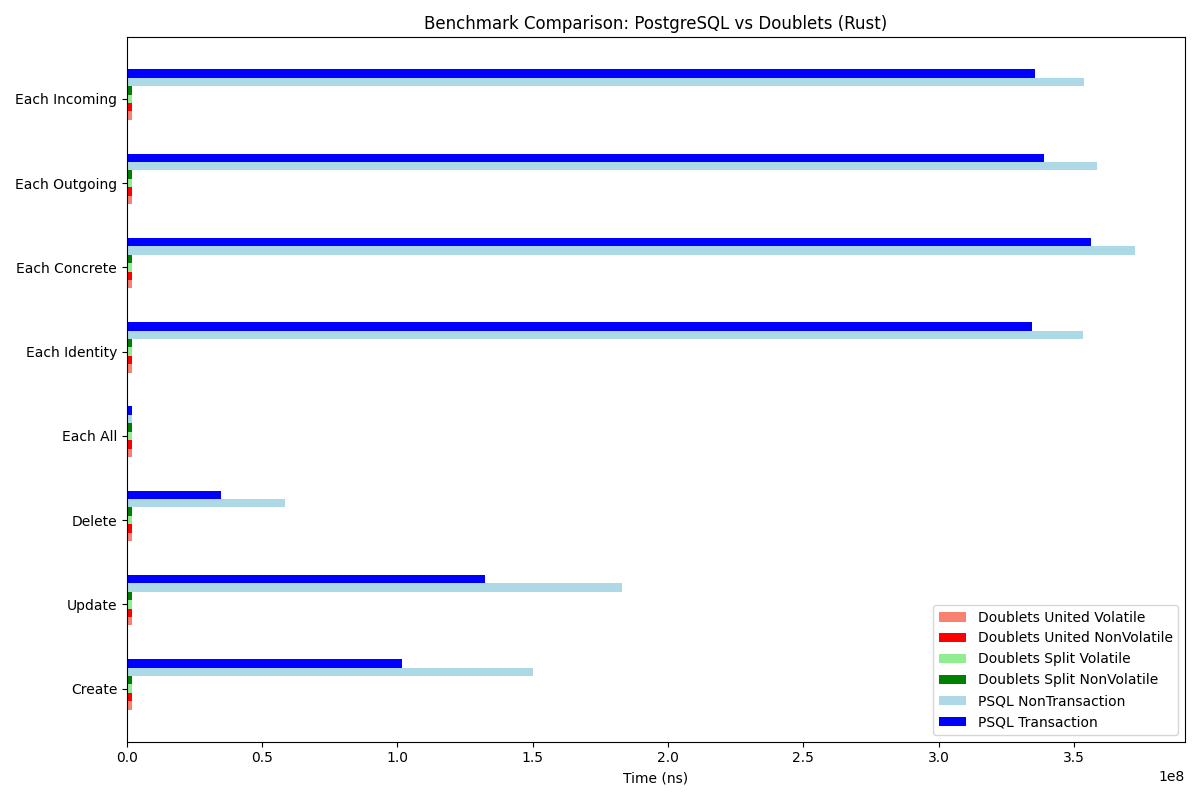
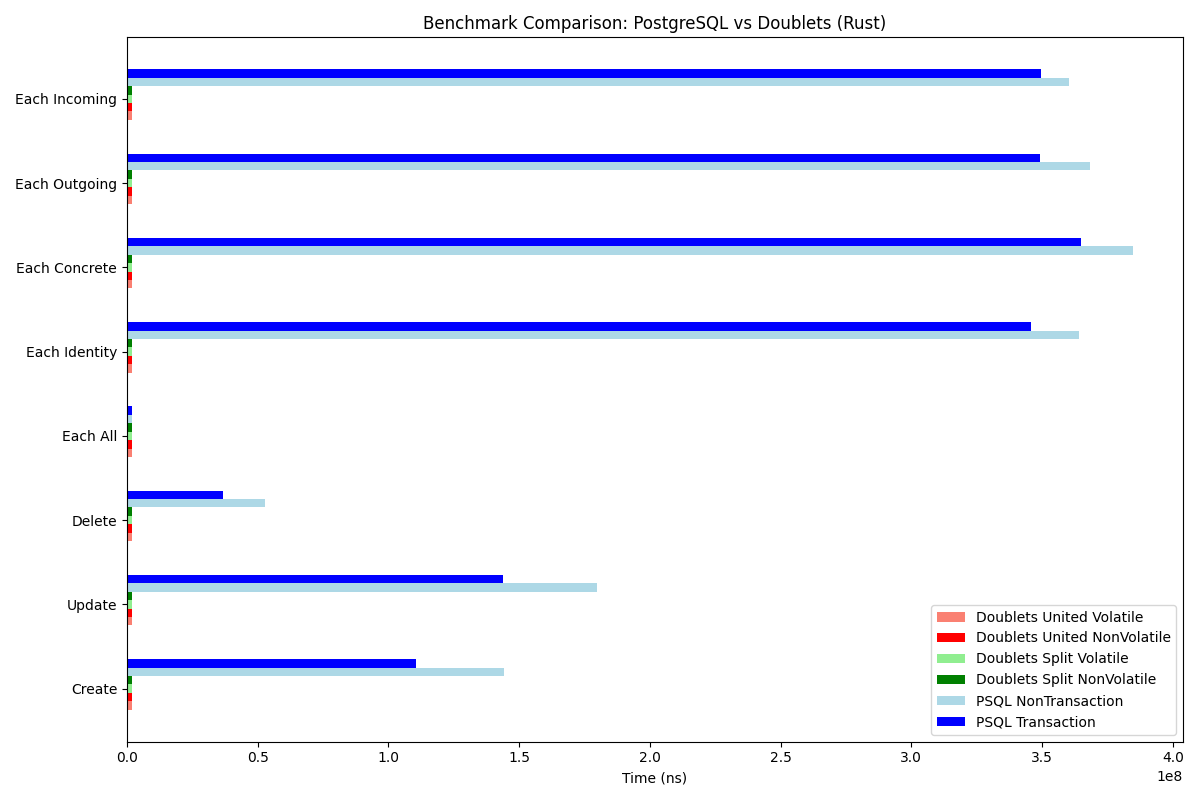
Update benchmark results

diff --git a/README.md b/README.md
@@ -32,14 +32,14 @@ The results below represent the amount of time (ns) the operation takes per iter
 
 | Operation     | Doublets United Volatile | Doublets United NonVolatile | Doublets Split Volatile | Doublets Split NonVolatile | PSQL NonTransaction | PSQL Transaction |
 |---------------|--------------------------|-----------------------------|-------------------------|----------------------------|---------------------|------------------|
-| Create        | 9204 (11056.4x faster)   | 9125 (11152.1x faster)      | 9478 (10736.8x faster)  | 8226 (12370.9x faster)     | 150151369           | 101763082        |
-| Update        | 34157 (3869.8x faster)   | 33954 (3892.9x faster)      | 8291 (15942.5x faster)  | 8266 (15990.8x faster)     | 182868706           | 132179627        |
-| Delete        | 17329 (2013.3x faster)   | 17451 (1999.3x faster)      | 14195 (2457.8x faster)  | 14601 (2389.5x faster)     | 58448123            | 34889131         |
-| Each All      | 4708 (160.2x faster)     | 5011 (150.5x faster)        | 5316 (141.9x faster)    | 5629 (134.0x faster)       | 793277              | 754115           |
-| Each Identity | 34190 (9780.9x faster)   | 34208 (9775.8x faster)      | 33923 (9857.9x faster)  | 33896 (9865.8x faster)     | 353408454           | 334410191        |
-| Each Concrete | 57288 (6222.6x faster)   | 57067 (6246.7x faster)      | 44231 (8059.5x faster)  | 44280 (8050.5x faster)     | 372416796           | 356478290        |
-| Each Outgoing | 91274 (3713.8x faster)   | 103925 (3261.7x faster)     | 39869 (8502.1x faster)  | 39901 (8495.3x faster)     | 358537556           | 338972159        |
-| Each Incoming | 87745 (3824.4x faster)   | 104678 (3205.7x faster)     | 40089 (8370.6x faster)  | 40144 (8359.2x faster)     | 353697010           | 335569920        |
+| Create        | 8780 (12614.9x faster)   | 9125 (12137.9x faster)      | 8296 (13350.9x faster)  | 8270 (13392.8x faster)     | 144051115           | 110758727        |
+| Update        | 33773 (4264.4x faster)   | 33670 (4277.4x faster)      | 8208 (17546.3x faster)  | 8236 (17486.7x faster)     | 179650014           | 144020140        |
+| Delete        | 16799 (2200.1x faster)   | 17008 (2173.1x faster)      | 14901 (2480.4x faster)  | 16508 (2238.9x faster)     | 52939761            | 36960301         |
+| Each All      | 5012 (156.4x faster)     | 5627 (139.3x faster)        | 5307 (147.7x faster)    | 5589 (140.2x faster)       | 795313              | 783693           |
+| Each Identity | 34225 (10100.2x faster)  | 34243 (10094.9x faster)     | 34256 (10091.1x faster) | 34245 (10094.3x faster)    | 364256566           | 345680880        |
+| Each Concrete | 58809 (6206.2x faster)   | 58118 (6279.9x faster)      | 44626 (8178.6x faster)  | 44674 (8169.8x faster)     | 384697270           | 364978052        |
+| Each Outgoing | 89110 (3918.3x faster)   | 89121 (3917.9x faster)      | 40241 (8676.8x faster)  | 40243 (8676.4x faster)     | 368437596           | 349163623        |
+| Each Incoming | 86241 (4053.8x faster)   | 86548 (4039.5x faster)      | 40536 (8624.6x faster)  | 40889 (8550.1x faster)     | 360478187           | 349606577        |
 
 ## Conclusion
 